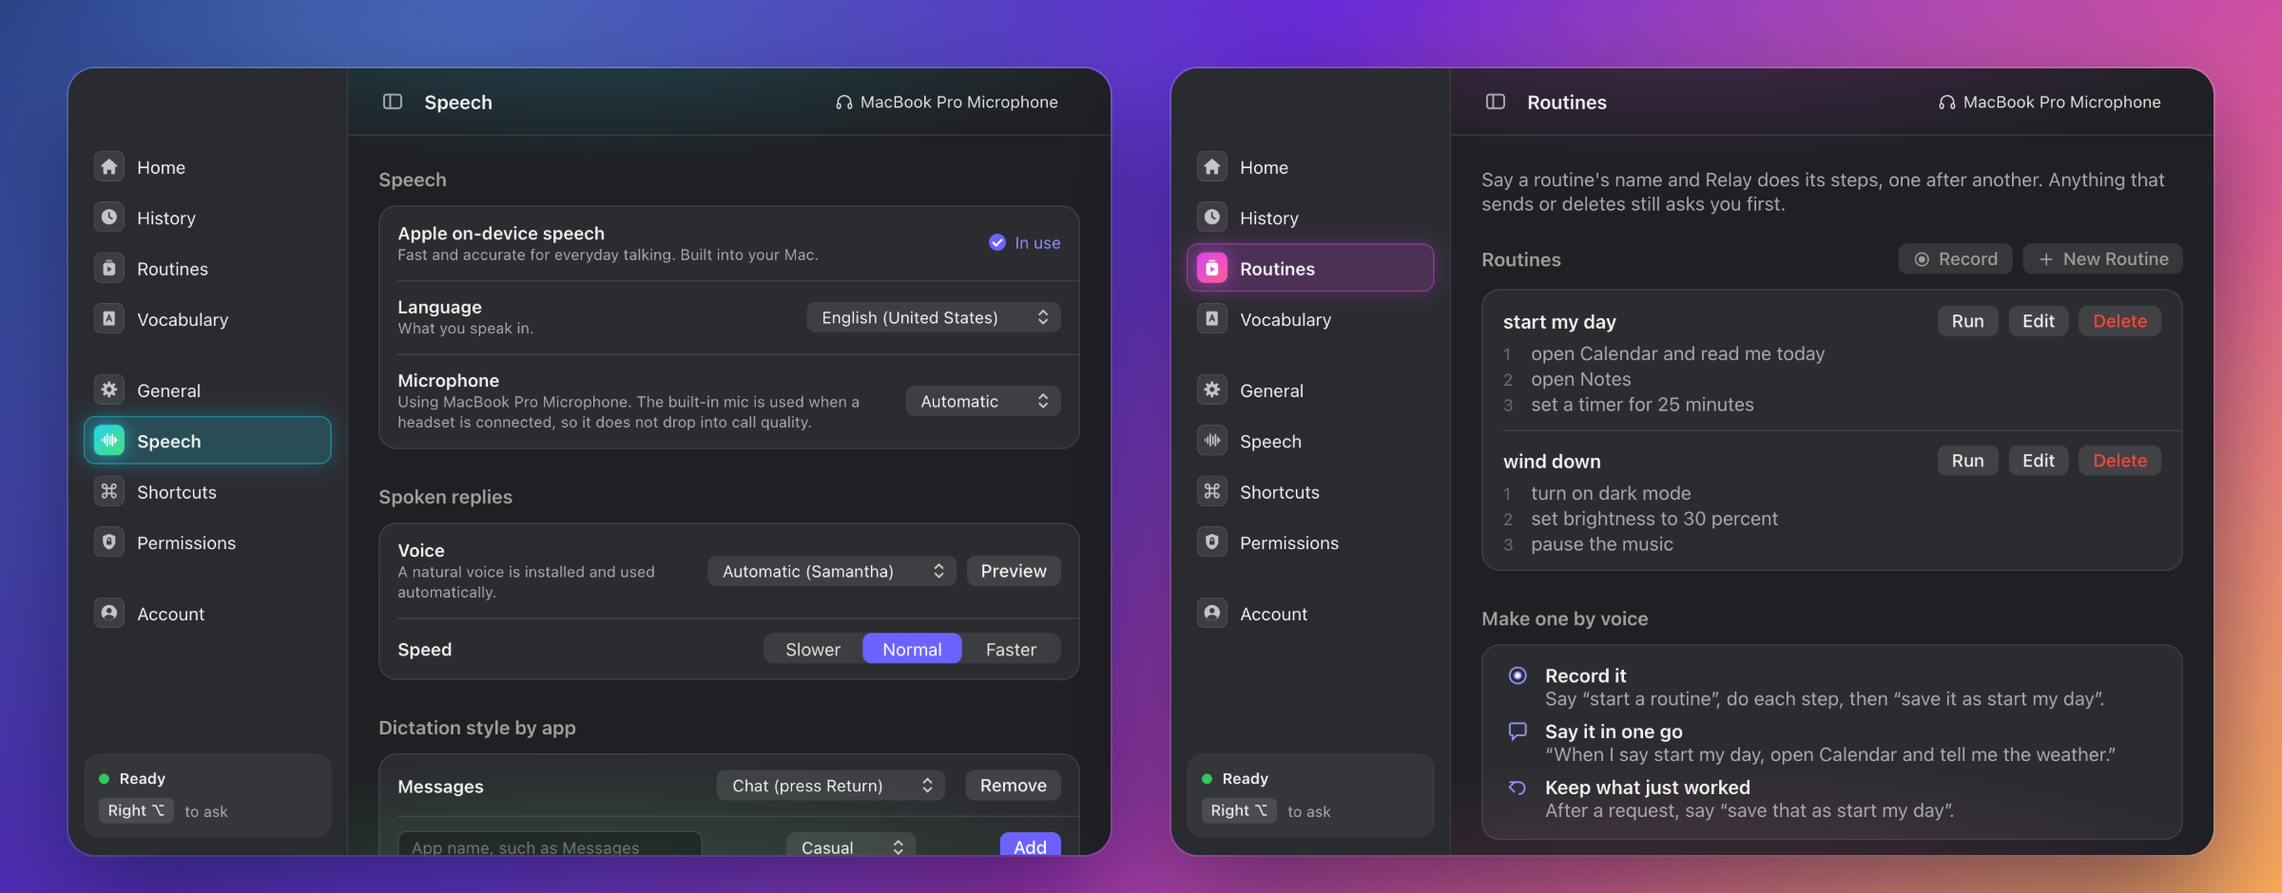
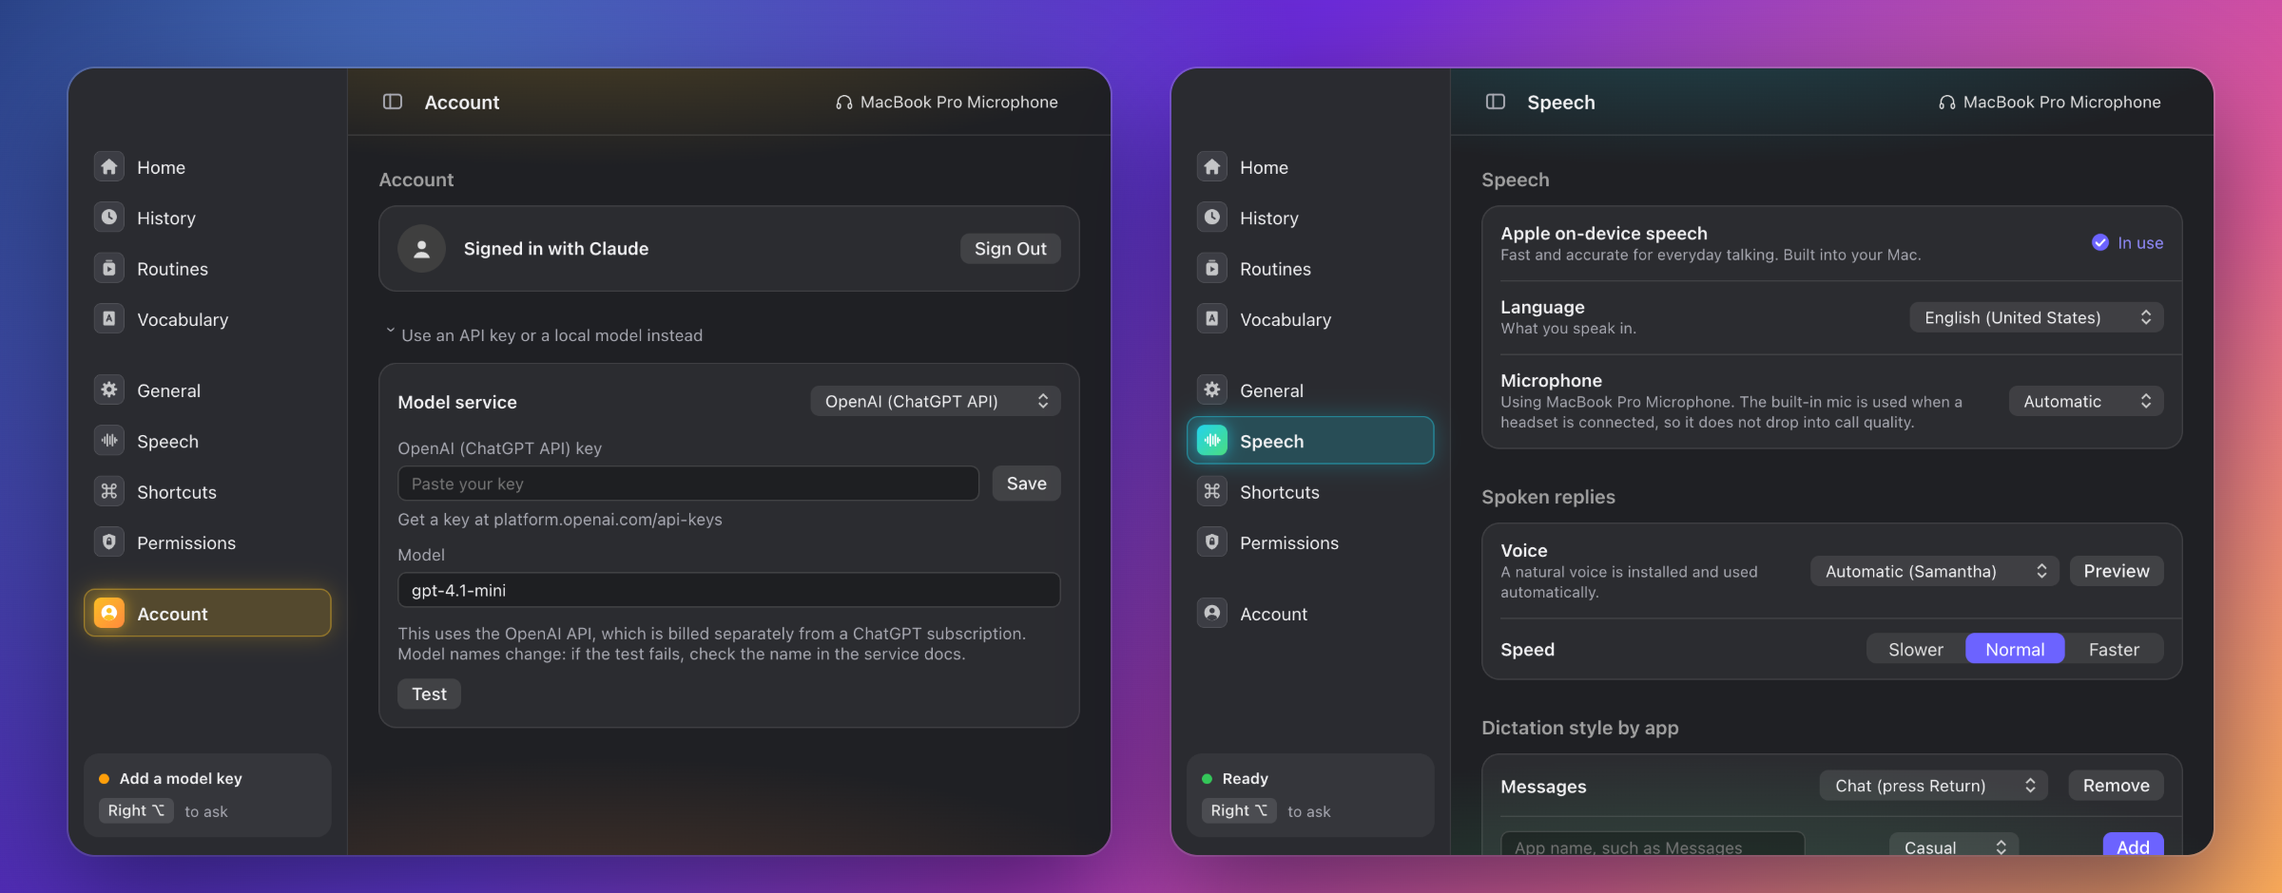
Release 0.2.0: README, website, diagram and pictures updated
Document the new model services, the calmer look and the collapsible sidebar in
the README and website; generalise the architecture diagram; regenerate the
charts (136 tests) and screenshots, now showing the Account model picker. Fix the
website FAQ so it describes the Claude sign-in accurately (included, unsupported).
Version 0.2.0 with changelog and release notes.

diff --git a/docs/index.html b/docs/index.html
@@ -6,7 +6,7 @@
 <title>Relay: talk to your Mac</title>
 <meta name="description" content="Relay is a free, open source menu bar assistant for macOS. Talk to it and it opens apps, writes notes and reminders, reads your calendar, drives Firefox and types what you say into any app.">
 <meta property="og:title" content="Relay: talk to your Mac">
-<meta property="og:description" content="A free, open source menu bar assistant for macOS. Built-in on-device dictation. Runs on your own API key or a local Ollama model.">
+<meta property="og:description" content="A free, open source menu bar assistant for macOS. Built-in on-device dictation. Runs on your own API key (Anthropic, OpenAI, Gemini and more) or a local Ollama model.">
 <meta property="og:type" content="website">
 <meta property="og:url" content="https://serjdmitri.github.io/Relay/">
 <meta property="og:image" content="https://serjdmitri.github.io/Relay/img/pill-states.png">
@@ -139,26 +139,26 @@
 
   <section class="wrap" aria-labelledby="see">
     <h2 id="see">See it in action</h2>
-    <p class="sub">The real interface, shown with sample data.</p>
+    <p class="sub">The real interface, shown with sample data. The sidebar collapses to the left to give a page the whole window.</p>
     <div class="two">
       <div class="frame"><img src="img/ui-main.png" alt="Relay window: Home with shortcuts and stats, and History with a seven-day chart" width="1200" height="470" loading="lazy"></div>
-      <div class="frame"><img src="img/ui-more.png" alt="Relay window: Speech settings and Routines" width="1200" height="470" loading="lazy"></div>
+      <div class="frame"><img src="img/ui-more.png" alt="Relay window: Account with the model service picker, and Speech settings" width="1200" height="470" loading="lazy"></div>
     </div>
   </section>
 
   <section id="how" class="wrap">
     <h2>How it works</h2>
     <p class="sub">Your voice stays on your Mac until there is something for a model to do.</p>
-    <div class="diagram"><img src="architecture.svg" alt="Diagram: your voice goes through on-device dictation to a router, which runs an instant command or asks Claude; Claude uses a local tool server, a confirm gate guards risky actions, and everything runs on your Mac" width="1200" height="500" loading="lazy"></div>
+    <div class="diagram"><img src="architecture.svg" alt="Diagram: your voice goes through on-device dictation to a router, which runs an instant command or asks your model; the model uses a local tool server, a confirm gate guards risky actions, and everything runs on your Mac" width="1200" height="500" loading="lazy"></div>
   </section>
 
   <section id="models" class="wrap">
     <h2>Bring your own <span class="g">brain</span></h2>
     <p class="sub">Relay is free. Pick how it thinks. You never pay Relay anything.</p>
     <div class="grid model">
-      <div class="card"><h3>Anthropic API key <span class="tag">Recommended</span></h3><p>Paste a key from the Claude Console. It is stored in your Keychain and never shown again. You pay Anthropic for what you use, and Relay picks a fast model for simple requests.</p></div>
+      <div class="card"><h3>Your own API key <span class="tag">Recommended</span></h3><p>Anthropic, OpenAI (the ChatGPT API), Google Gemini, Groq, Mistral, xAI Grok, DeepSeek, or any OpenAI-compatible address. Paste a key once; it is stored encrypted with your Keychain. You pay the service for what you use, and there is a Test button to check it.</p></div>
       <div class="card"><h3>Ollama <span class="tag">Free and local</span></h3><p>Run a model on your own Mac. Nothing leaves your machine. Pick one with tool support, and a vision model if you want screenshots.</p></div>
-      <div class="card"><h3>Your own Claude Code <span class="tag warn">Personal builds</span></h3><p>If you build Relay from source for yourself, it can use a Claude Code you have already signed in to. Anthropic does not allow apps to offer this to other people, so downloads are meant for the two options above.</p></div>
+      <div class="card"><h3>Your own Claude Code <span class="tag warn">Unsupported</span></h3><p>Relay can also run a Claude Code you have signed in to yourself. It is included but unsupported: Anthropic does not allow apps to offer Claude.ai login or use a plan on behalf of other people, so use it at your own risk. The two options on the left are the supported ones.</p></div>
     </div>
   </section>
 
@@ -166,7 +166,7 @@
     <h2 id="nums">Built in the open</h2>
     <p class="sub">The numbers below are drawn from the repository itself.</p>
     <div class="charts">
-      <img src="img/chart-tests.svg" alt="Bar chart of 129 unit tests by area" width="600" height="340" loading="lazy">
+      <img src="img/chart-tests.svg" alt="Bar chart of 136 unit tests by area" width="600" height="340" loading="lazy">
       <img src="img/chart-code.svg" alt="Donut chart of lines of code by language" width="600" height="340" loading="lazy">
     </div>
   </section>
@@ -178,7 +178,7 @@
       <div class="step"><b>Download</b><span>Grab the <code>.dmg</code> for your Mac from the latest release and drag Relay to Applications.</span></div>
       <div class="step"><b>Open it once</b><span>Relay is not notarized, so right-click it and choose <strong>Open</strong>, then <strong>Open</strong> again.</span></div>
       <div class="step"><b>Allow what it needs</b><span>Microphone, Accessibility, Screen Recording and Input Monitoring, once each. The welcome guide walks you through.</span></div>
-      <div class="step"><b>Pick a model</b><span>Paste an Anthropic API key, or point Relay at a local Ollama model, then press <code>Right ⌥</code> and talk.</span></div>
+      <div class="step"><b>Pick a model</b><span>In Account, pick a model service and paste its API key, or point Relay at a local Ollama model. Then press <code>Right ⌥</code> and talk.</span></div>
     </div>
     <pre><code>xattr -dr com.apple.quarantine /Applications/Relay.app   # if macOS still refuses to open it</code></pre>
     <div class="dl">
@@ -190,9 +190,9 @@
 
   <section id="faq" class="wrap">
     <h2 style="margin-bottom:34px">Questions</h2>
-    <details><summary>Is Relay really free?</summary><p>Yes. It is open source under the MIT license. The only cost is whatever your chosen model charges: an Anthropic API key bills per use, and Ollama runs locally for free.</p></details>
+    <details><summary>Is Relay really free?</summary><p>Yes. It is open source under the MIT license. The only cost is whatever your chosen model service charges: an API key bills per use, and Ollama runs locally for free.</p></details>
     <details><summary>Does my voice leave my Mac?</summary><p>No. Dictation uses Apple's on-device speech recognition. Only the resulting words are sent to the model you picked, and only when you ask Relay to do something.</p></details>
-    <details><summary>Can I use my Claude or ChatGPT subscription?</summary><p>Not in the downloadable app. Anthropic's terms do not let third-party apps offer Claude.ai login or route requests through someone's Pro or Max plan, and OpenAI only allows ChatGPT plan use in apps it has approved. Relay uses API keys or local models for that reason. If you build it from source for yourself, it can use your own signed-in Claude Code; please read the note in the README first.</p></details>
+    <details><summary>Can I use my Claude or ChatGPT subscription?</summary><p>Not as a supported feature. Anthropic does not allow third-party apps to offer Claude.ai login or to route requests through someone's Pro or Max plan, and OpenAI only allows ChatGPT plan use in apps it has approved. Relay's supported options are API keys and local models; the OpenAI API is billed separately from ChatGPT Plus. Relay does include an unsupported path that runs a Claude Code you have signed in to yourself. It may stop working and is used at your own risk; please read the note in the README.</p></details>
     <details><summary>Why does macOS warn me when I open it?</summary><p>Relay is not notarized by Apple, which needs a paid developer account. Right-click it and choose Open, or run the <code>xattr</code> command above. You can also read and build the source yourself.</p></details>
     <details><summary>Does it work on Windows, Linux or older Macs?</summary><p>No. Dictation and the glass pill use macOS 26 features, and the actions are built on AppleScript and Accessibility, so Relay is Mac only for now.</p></details>
     <details><summary>Is it affiliated with Anthropic, Talkify or Octaflow?</summary><p>No. Relay is an independent project. It began as a companion for <a href="https://github.com/tornikegomareli/Talkify">Talkify</a>, and its window follows Octaflow's layout with original code, name and icon.</p></details>

diff --git a/README.md b/README.md
@@ -13,7 +13,7 @@ A menu bar assistant that opens apps, writes notes and reminders, reads your cal
   <img alt="Apple Silicon and Intel" src="https://img.shields.io/badge/arm64%20%7C%20x64-dmg-FF9F0A">
   <img alt="Electron" src="https://img.shields.io/badge/Electron-33-47848F?logo=electron&logoColor=white">
   <img alt="Swift" src="https://img.shields.io/badge/Swift-5-F05138?logo=swift&logoColor=white">
-  <img alt="Tests" src="https://img.shields.io/badge/tests-129%20passing-30D158">
+  <img alt="Tests" src="https://img.shields.io/badge/tests-136%20passing-30D158">
   <a href="LICENSE"><img alt="MIT license" src="https://img.shields.io/badge/license-MIT-lightgrey"></a>
 </p>
 
@@ -25,7 +25,7 @@ Dictation is built in (Apple's on-device speech recognition), so a separate dict
 
 **[Website](https://serjdmitri.github.io/Relay/)** | **[Releases](https://github.com/serjdmitri/Relay/releases)** | [Download](#download) | [Build from source](#install-from-source-on-your-mac) | [Using it](#using-it) | [What is verified](#what-is-verified-and-what-is-not)
 
-> **Status: early (v0.1.1).** The agent, dictation, interface and tests run on a Mac, but many flows have only been tried by hand. Expect rough edges and please open an issue with what the **History > Actions** tab shows.
+> **Status: early (v0.2.0).** The agent, dictation, interface and tests run on a Mac, but many flows have only been tried by hand. Expect rough edges and please open an issue with what the **History > Actions** tab shows.
 
 > **Claude account sign-in is for your own Mac only.** Relay can run your own signed-in Claude Code (`claude`) so you need no API key. Anthropic does not allow third-party apps to offer claude.ai login to other people, so do not hand Relay builds to others expecting that path to be okay. If you share or distribute a build, point it at an **Anthropic API key** or a local **Ollama** model instead (Account page, "Use an API key or a local model instead").
 
@@ -51,7 +51,7 @@ You will approve Microphone, Accessibility, Screen Recording and Input Monitorin
 
 <p align="center">
   <img src="docs/img/ui-main.png" alt="Relay window: Home with shortcuts and stats, and History with a seven-day chart" width="900"><br>
-  <img src="docs/img/ui-more.png" alt="Relay window: Speech settings and Routines" width="900">
+  <img src="docs/img/ui-more.png" alt="Relay window: Account with the model service picker, and Speech settings" width="900">
 </p>
 
 These are the real interface pages rendered with sample data, so no personal information is shown. Regenerate them with `npm run shots && npm run readme-images`.
@@ -59,7 +59,7 @@ These are the real interface pages rendered with sample data, so no personal inf
 ## How it works
 
 <p align="center">
-  <img src="docs/architecture.svg" alt="Diagram: your voice goes through on-device dictation to a router, which runs an instant command or asks Claude; Claude uses a local tool server, a confirm gate guards risky actions, and everything runs on your Mac" width="900">
+  <img src="docs/architecture.svg" alt="Diagram: your voice goes through on-device dictation to a router, which runs an instant command or asks your model; the model uses a local tool server, a confirm gate guards risky actions, and everything runs on your Mac" width="900">
 </p>
 
 ## By the numbers
@@ -143,9 +143,15 @@ The pill is real see-through macOS glass (a small native helper, `native/relay-g
 Turn on **General > Speak replies**, then pick a voice and speed under **Speech > Spoken replies**. Relay uses the best voice it can find, and uses a natural (Siri, Premium or Enhanced) voice automatically once you have downloaded one: System Settings > Accessibility > Spoken Content > System Voice > Manage Voices. Apps cannot see those voices through Apple's speech API, so Relay speaks through the system `say` command.
 
 ### Claude account
-Relay runs your own Claude Code (`claude`), already signed in to your Claude account, and gives it Relay's Mac tools over a local-only tool server (127.0.0.1, random port, bearer token). Sign in, sign out and pick the model on the Account page. The default, **Auto**, starts Claude while you are still talking, answers simple requests with Haiku (fastest), starts writing and planning requests on Sonnet, and moves a struggling Haiku request up to Sonnet in the same conversation, so nothing already done is repeated. Pick Haiku, Sonnet or Opus by hand to turn that off. An API key or a local Ollama model is still available under "Use an API key or a local model instead".
+Relay runs your own Claude Code (`claude`), already signed in to your Claude account, and gives it Relay's Mac tools over a local-only tool server (127.0.0.1, random port, bearer token). Sign in, sign out and pick the model on the Account page. The default, **Auto**, starts Claude while you are still talking, answers simple requests with Haiku (fastest), starts writing and planning requests on Sonnet, and moves a struggling Haiku request up to Sonnet in the same conversation, so nothing already done is repeated. Pick Haiku, Sonnet or Opus by hand to turn that off. An API key or a local Ollama model is still available under "Use an API key or a local model instead" (see below).
 
 This is for your own use on your own Mac. Do not hand Relay builds to other people with this sign-in path: Anthropic does not allow third-party apps to offer claude.ai login to others.
+
+### Other model services (your own API key)
+Account > **Model service** also offers **OpenAI** (the ChatGPT API), **Google Gemini**, **Groq**, **Mistral**, **xAI (Grok)**, **DeepSeek** and a **Custom address** for anything that speaks the OpenAI chat format (LM Studio, OpenRouter and so on), next to the Anthropic API key and Ollama. Each service keeps its own key (stored encrypted with your Keychain) and its own model name, and there is a **Test** button. Model names change, so edit the name if the test fails. OpenAI and Gemini are treated as able to see screenshots; the others are text only, so Relay does not take screenshots with them. The OpenAI API is billed separately from a ChatGPT subscription.
+
+### The window
+The sidebar collapses to the left from the button in the top bar, or with ⌘\, so the page gets the whole window. Relay remembers the choice. The interface is neutral gray with one indigo accent; each page only tints the soft glow at the top and bottom and the selected sidebar item.
 
 ### Tools the agent has
 Apps (list, open, focus, quit), URLs and files, Finder (reveal, list, trash), Notes, Reminders, Calendar, Messages (iMessage), type text, key presses, menu bar clicks, accessibility-tree clicks (`ui_list`/`ui_click`), screenshots, pixel clicks and scrolling, a Relay cursor overlay that glides to the target before clicking, web search and page fetch, volume and dark mode, raw AppleScript, shell. Firefox tab tools appear when the extension is connected.
@@ -158,9 +164,9 @@ Every tool call with its arguments and result. If something does not work, look 
 
 ## What is verified and what is not
 
-Verified on a Mac (`npm test`, 129 tests): shortcut tap/hold logic including Right ⌘ and Esc, the agent loop and confirm gate, both API providers' wire formats, the local tool server and the Claude runner (with a fake `claude`), the dictation helper's protocol, instant commands, AppleScript builders, settings migration, the Firefox bridge. Also run for real: the dictation helper transcribing generated speech, and the Claude runner driving real tool calls (including an image result and a declined confirmation) through a signed-in `claude`.
+Verified on a Mac (`npm test`, 136 tests): shortcut tap/hold logic including Right ⌘ and Esc, the agent loop and confirm gate, the wire formats of the Anthropic, Ollama and OpenAI-compatible providers (with fake servers), the local tool server and the Claude runner (with a fake `claude`), the dictation helper's protocol, instant commands, AppleScript builders, settings migration, the Firefox bridge. Also run for real: the dictation helper transcribing generated speech, and the Claude runner driving real tool calls (including an image result and a declined confirmation) through a signed-in `claude`.
 
-Not verified by script: live microphone dictation end to end, music control, spoken-command dictation and word fixes with a real voice, the clipboard and selection tools, permission prompts, global shortcut detection, the AppleScript against Notes, Reminders, Calendar, Messages and Finder beyond what you have tried by hand. `scripts/e2e.mjs` and `scripts/screenshots.mjs` predate dictation and the Claude sign-in and have not been updated or re-run. The Actions tab and `Console.app` (filter "Relay") are where errors show up.
+Not verified by script: real calls to the OpenAI-compatible services (OpenAI, Gemini, Groq, Mistral, xAI, DeepSeek), live microphone dictation end to end, music control, spoken-command dictation and word fixes with a real voice, the clipboard and selection tools, permission prompts, global shortcut detection, the AppleScript against Notes, Reminders, Calendar, Messages and Finder beyond what you have tried by hand. `scripts/e2e.mjs` and `scripts/screenshots.mjs` predate dictation and the Claude sign-in and have not been updated or re-run. The Actions tab and `Console.app` (filter "Relay") are where errors show up.
 
 ## Layout
 ```

diff --git a/docs/release-notes-v0.2.0.md b/docs/release-notes-v0.2.0.md
@@ -1,0 +1,21 @@
+More model services, a calmer look and a sidebar you can collapse.
+
+## What changed
+- **More model services:** OpenAI (the ChatGPT API), Google Gemini, Groq, Mistral, xAI (Grok), DeepSeek, or any OpenAI-compatible address, next to the Anthropic API key and Ollama. Pick one under Account > Model service. Each service has its own key (stored encrypted with your Keychain), an editable model name and a Test button. The OpenAI API is billed separately from a ChatGPT subscription.
+- **Calmer look:** a neutral gray interface with one indigo accent. Each page only tints the soft glow at the top and bottom of the window and the selected sidebar item.
+- **Collapsible sidebar:** hide it to the left from the top bar, or with ⌘\, so the page gets the whole window. Relay remembers the choice.
+- Website, README, diagram, charts and screenshots updated.
+
+## Requirements
+**macOS 26 or later.** Apple Silicon (`arm64`) and Intel (`x64`) builds are attached below.
+
+## Install
+Download the `.dmg` for your Mac and drag Relay to Applications. It is not notarized, so the first time, right-click Relay and choose Open, or run `xattr -dr com.apple.quarantine /Applications/Relay.app`. You will approve Microphone, Accessibility, Screen Recording and Input Monitoring once.
+
+## Models and sign-in
+Supported options are an API key from one of the services above, or a local Ollama model. Relay also includes an unsupported, personal-use path that runs a Claude Code you have signed in to yourself. Anthropic does not allow apps to offer Claude.ai login or use a plan on behalf of other people, so use it at your own risk.
+
+## Testing status
+136 unit tests pass. Real calls to the new model services (OpenAI, Gemini, Groq, Mistral, xAI, DeepSeek) were not made: they are covered by tests with fake servers, so check the model name with the Test button. Live microphone dictation, music control, permission prompts and AppleScript against every app have only been tried by hand. If something fails, open an issue with what History > Actions shows.
+
+Full list of changes: [CHANGELOG.md](https://github.com/serjdmitri/Relay/blob/main/CHANGELOG.md)

diff --git a/CHANGELOG.md b/CHANGELOG.md
@@ -1,10 +1,12 @@
 # Changelog
 
-## Unreleased
+## 0.2.0
 
 - More model services: OpenAI (ChatGPT API), Google Gemini, Groq, Mistral, xAI, DeepSeek and a custom OpenAI-compatible address, each with its own key and model. Pick one under Account > Model service.
 - Calmer look: a neutral gray interface with one indigo accent. Each page tints only the soft glows at the top and bottom of the window and the selected sidebar item; the rest of the sidebar stays gray.
 - The sidebar can be collapsed to the left (button in the top bar, or ⌘\) to give the page the whole window. Relay remembers the choice.
+- README, website, diagram, charts and screenshots updated to match. 136 unit tests.
+- No change to how Sign in with Claude works. It stays an unsupported, personal-use path (see the README).
 
 ## 0.1.1
 
